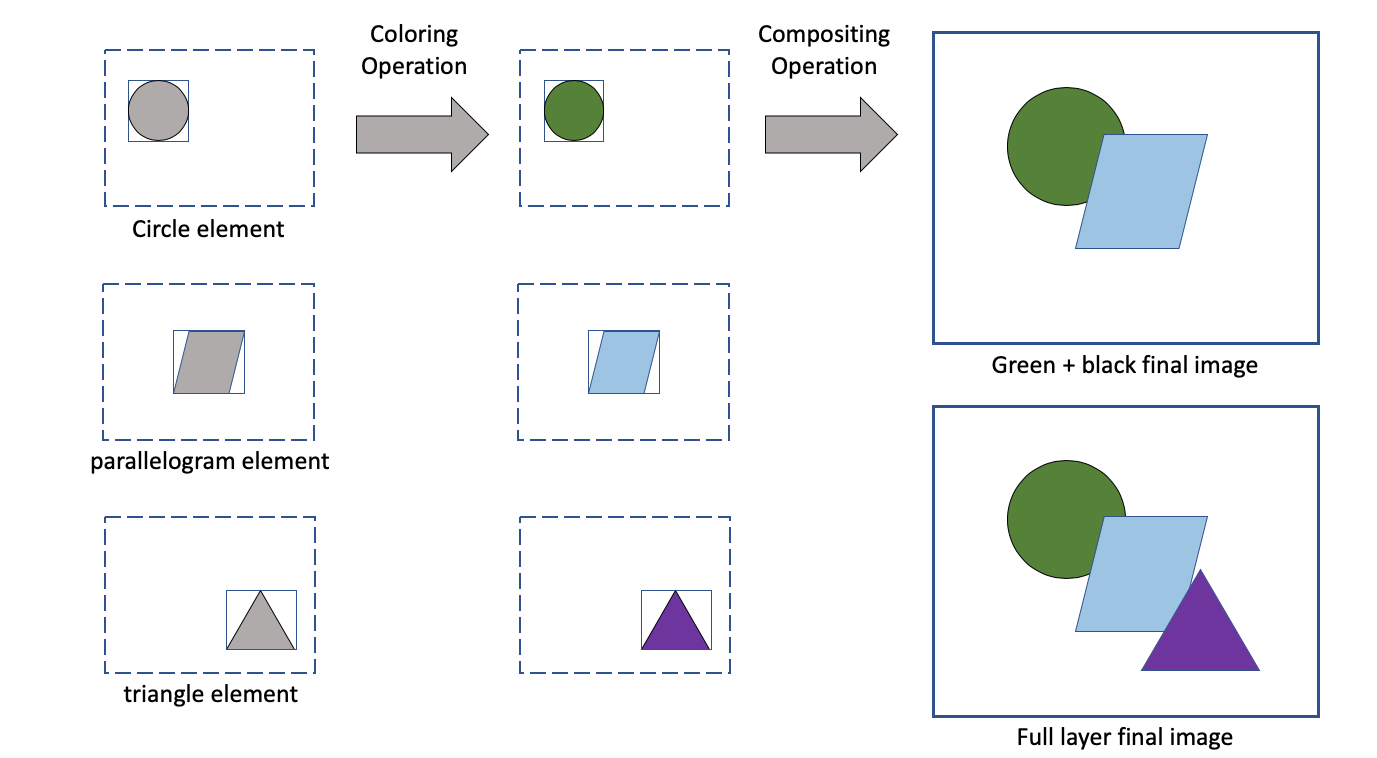
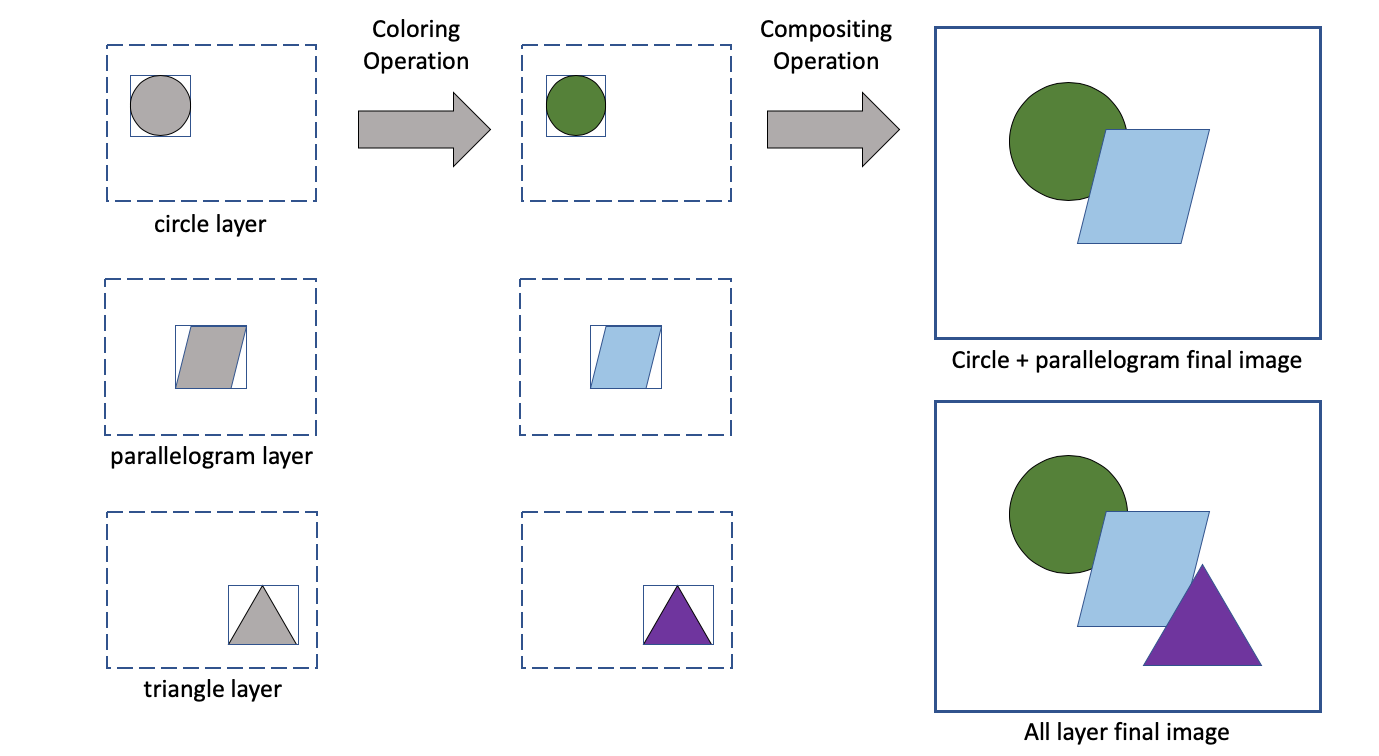
updates

diff --git a/design/2020/image_proposal/readme.md b/design/2020/image_proposal/readme.md
@@ -45,21 +45,19 @@ An **image** is a logical collection of data, formatted to be rendered into an `
 2. Has a specific 2D integer size (`MxN`)
 3. Has one or more `layers`.
 
-A **layer** is a logical collection of values used to construct a final `image`. A layer:
+A **layer** is a collection of values that comprise an element of an image. A layer:
 
 1. Is of known 2D integer size, less than or equal to the size of the `image`.
-2. Is placed at a properly oriented [x,y] offset from the `image` origin. The offset values must be integers on the ranges `[0,M]` and `[0,N]`.
-3. Must contain one or more channels. 
+2. Has an offset from the `image` origin. The offset values must be integers on the ranges `[0,M]` and `[0,N]`.
+3. Shall contain one or more channels. 
 
 A **channel** is a set of values. A channel:
 
-1. Is the dimension of the layer that contains it
+1. Is the size of the layer that contains it
 2. Can be of any valid type
-
-There are several **channels** with reserved names. These are:
-
-1. **depth** A channel containing per-pixel depth information. Each value is on the range [0.0, 1.0], which is [top, bottom].
-2. **lighting** A channel containing lighting information. The information can be a single value, or a set of values.
+3. May be one of a set of **reserved names**. These are:
+    - **depth** A channel containing per-pixel depth information. Each value is on the range [0.0, 1.0], which is [top, bottom].
+    - **lighting** A channel containing lighting information. The information can be a single value, or a set of values.
 
 # Storage
 
@@ -106,8 +104,8 @@ If it is stored in HDF5 format, it shall have the following structure. **NOTE:**
             max (attribute, required)
     colormaps/ (group, optional)
         <name>/ (group, at least one required)
-            type (attribute, required)
-            colormap (dataset, required)
+        	space (attribute, required) RGB
+            colormap (dataset, required) set of 5D points [x, o, r, g, b]
     image/ (group, required)
         NOTE: no non-image groups allowed below this level; groups assumed to be images 
         <name>/ (one or more named groups, each of which is an image) (required)
